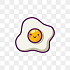
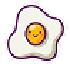
readded check for five rows and columns

Changed region(s): [[0.0857, 0.0571, 0.9143, 0.8857]]

diff --git a/app.js b/app.js
@@ -8,12 +8,12 @@ const squares = []
 let score = 0
 
 const candyColors = [
-    'url(images/pizza.png)',
-    'url(images/egg.png)',
-    'url(images/icecream.png)',
-    'url(images/sushi2.png)',
-    'url(images/fries.png)',
-    'url(images/donut.jpg)'
+    'url(images/pizza1.png)',
+    'url(images/egg1.png)',
+    'url(images/icecream1.png)',
+    'url(images/sushi1.png)',
+    'url(images/fries1.png)',
+    'url(images/donut1.png)'
   ]
 
 //create your board
@@ -51,7 +51,7 @@ function dragStart(){
 
 function dragOver(e) {
     e.preventDefault()
-}
+} 
 
 function dragEnter(e) {
     e.preventDefault()
@@ -99,6 +99,46 @@ function moveIntoSquareBelow() {
 
 
 ///Checking for Matches
+
+//for row of Four
+  function checkRowForFive() {
+    for (i = 0; i < 59; i ++) {
+      let rowOfFive = [i, i+1, i+2, i+3]
+      let decidedColor = squares[i].style.backgroundImage
+      const isBlank = squares[i].style.backgroundImage === ''
+
+      const notValid = [4, 5, 6, 7, 12, 13, 14, 15, 20, 21, 22, 23, 28, 29, 30, 31, 36, 37, 38, 39, 44, 45, 46, 47, 52, 53, 54, 55]
+      if (notValid.includes(i)) continue
+
+      if(rowOfFive.every(index => squares[index].style.backgroundImage === decidedColor && !isBlank)) {
+        score += 5
+        scoreDisplay.innerHTML = score
+        rowOfFive.forEach(index => {
+        squares[index].style.backgroundImage = ''
+        })
+      }
+    }
+  }
+  checkRowForFour()
+
+//for column of Four
+  function checkColumnForFive() {
+    for (i = 0; i < 39; i ++) {
+      let columnOfFive = [i, i+width, i+width*2, i+width*3, i+width*4]
+      let decidedColor = squares[i].style.backgroundImage
+      const isBlank = squares[i].style.backgroundImage === ''
+
+      if(columnOfFive.every(index => squares[index].style.backgroundImage === decidedColor && !isBlank)) {
+        score += 4
+        scoreDisplay.innerHTML = score
+        columnOfFive.forEach(index => {
+        squares[index].style.backgroundImage = ''
+        })
+      }
+    }
+  }
+checkColumnForFour()
+
 //for row of Four
   function checkRowForFour() {
     for (i = 0; i < 60; i ++) {
@@ -122,7 +162,7 @@ function moveIntoSquareBelow() {
 
 //for column of Four
   function checkColumnForFour() {
-    for (i = 0; i < 39; i ++) {
+    for (i = 0; i < 47; i ++) {
       let columnOfFour = [i, i+width, i+width*2, i+width*3]
       let decidedColor = squares[i].style.backgroundImage
       const isBlank = squares[i].style.backgroundImage === ''
@@ -177,8 +217,10 @@ checkColumnForFour()
   }
 checkColumnForThree()
 
-// Checks carried out indefintely - Add Button to clear interval for best practise, or clear on game over/game won. If you have this indefinite check you can get rid of calling the check functions above.
+// Checks carried out indefintely - Add Button to clear interval for best practice, or clear on game over/game won. If you have this indefinite check you can get rid of calling the check functions above.
 window.setInterval(function(){
+  checkRowForFive()
+  checkColumnForFive()
     checkRowForFour()
     checkColumnForFour()
     checkRowForThree()

diff --git a/README.md b/README.md
@@ -1,2 +1,5 @@
 # Milestone-Game
  Browser Game
+This game was inspired by Ania Kubow I was able to follow  her tutorial on the basics and add a few different features like the start/ pause button.
+Game instructions
+match 3, 4, 5 icons in a vertical or horizontal row to clear out the tiles. Inspired from Candy Crush
